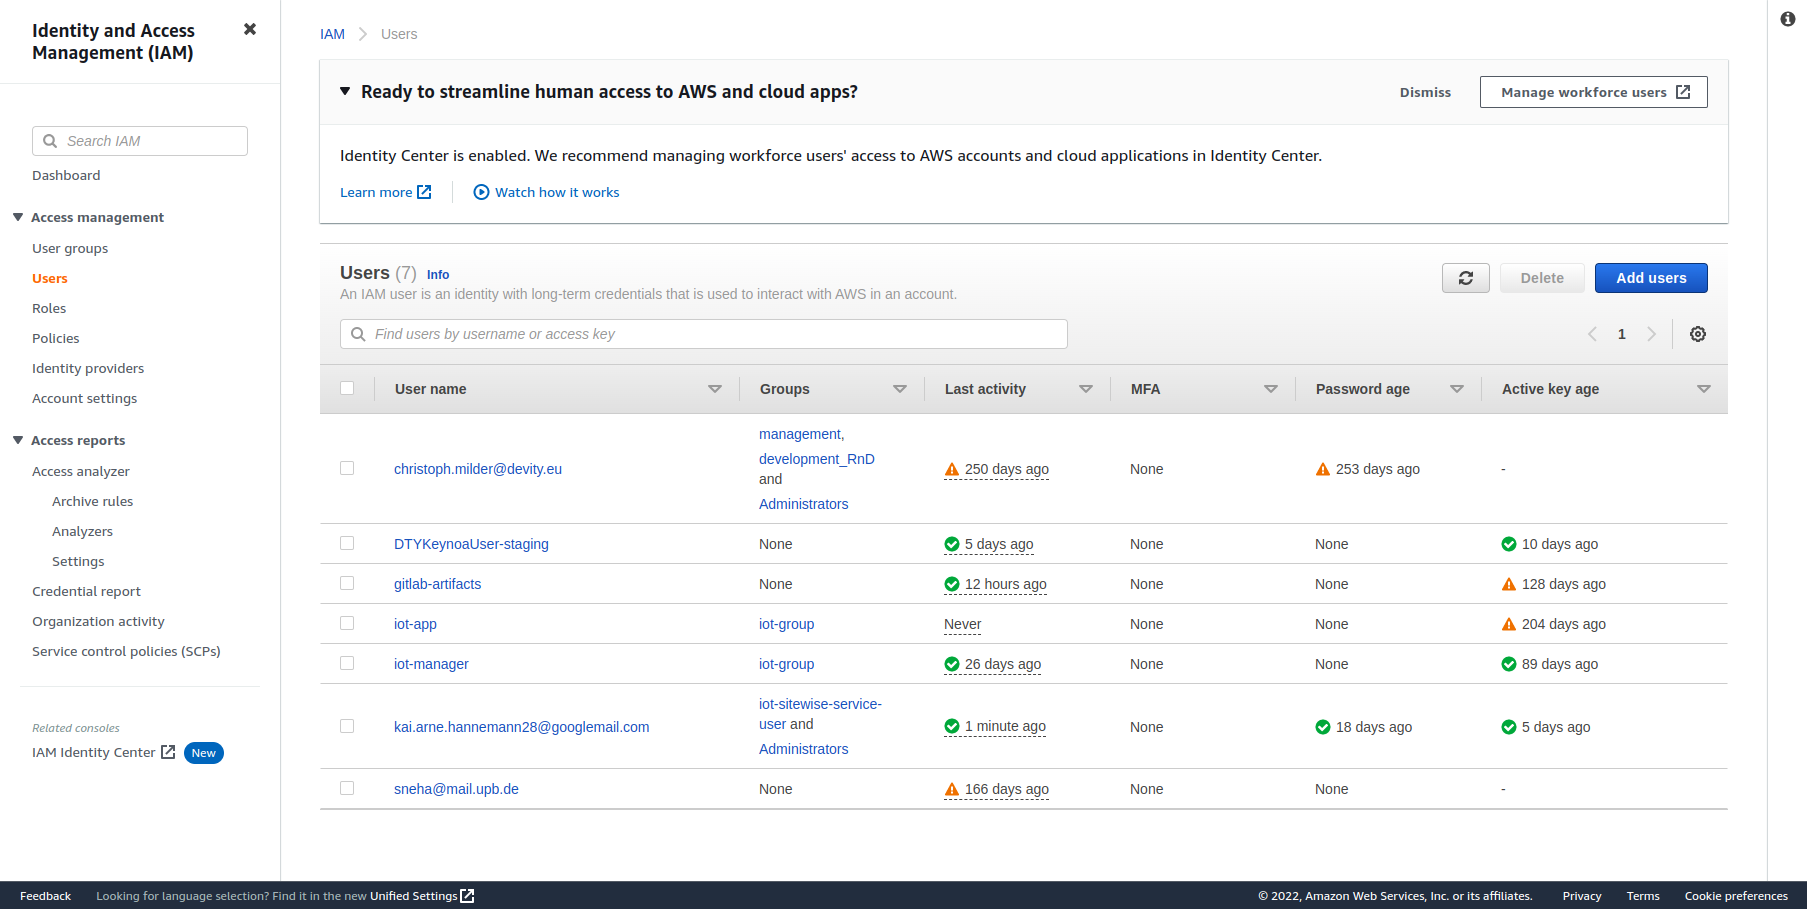
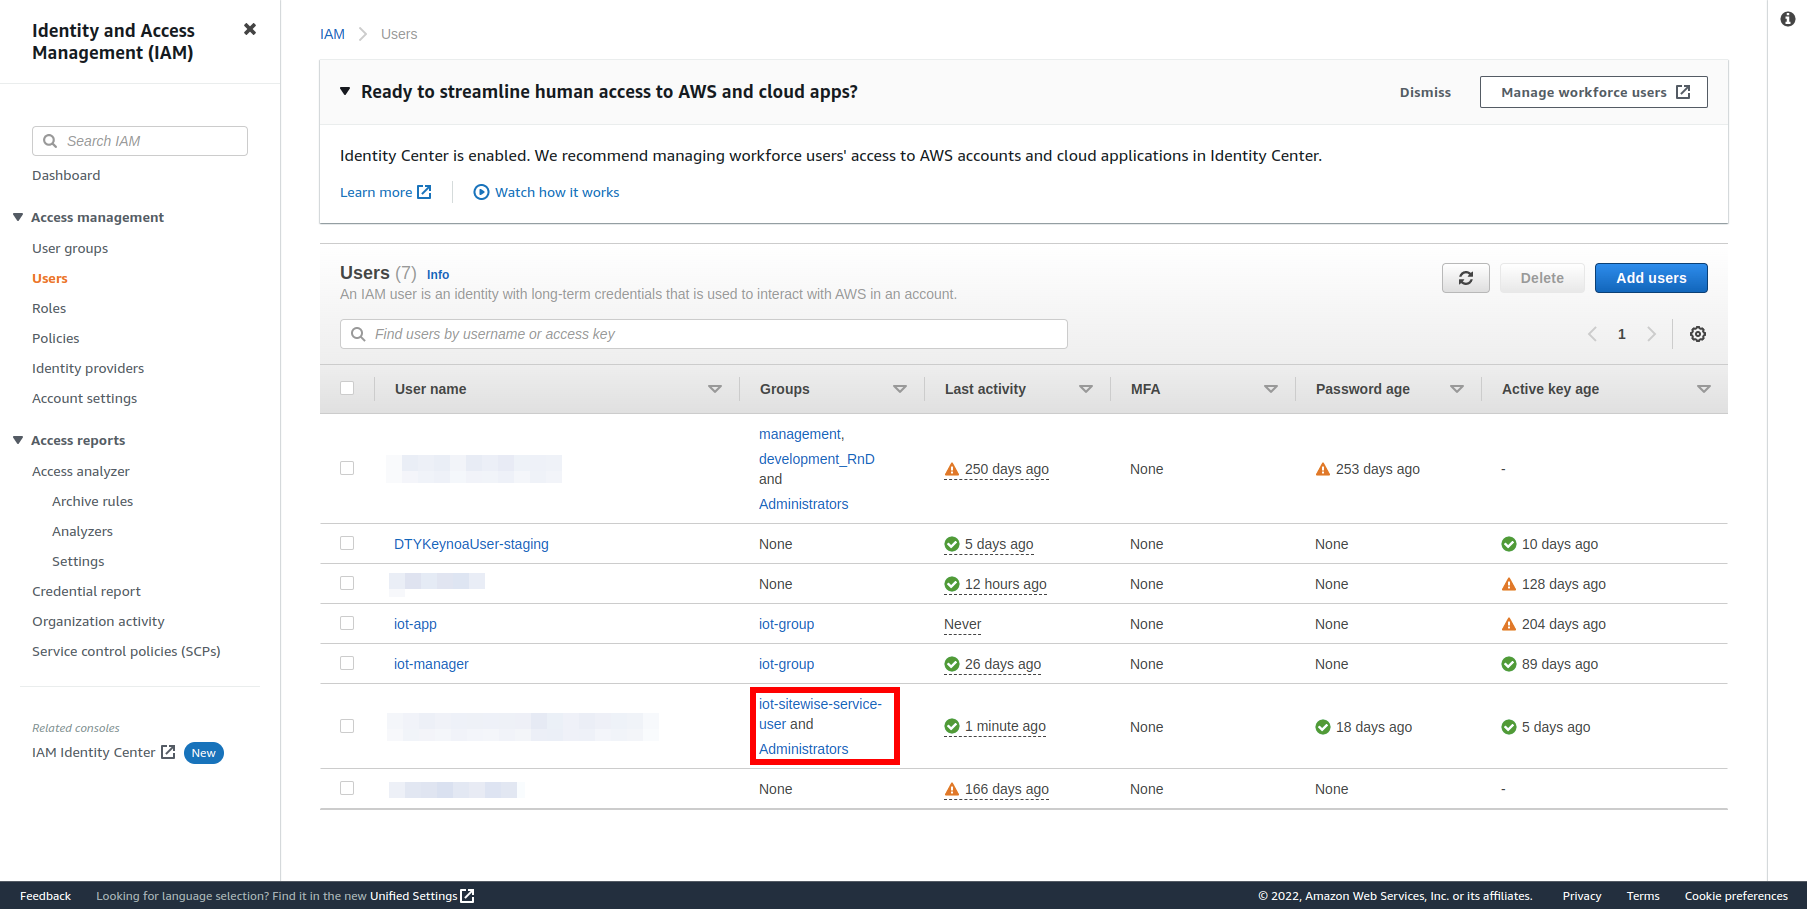
update first feedback

diff --git a/website/docs/IoT Use Cases/AWS/execution.md b/website/docs/IoT Use Cases/AWS/execution.md
@@ -18,11 +18,25 @@ First you start by configurating the device with the KEYNOA cloud.
 - Select the AWS data hub.
 ![KEYNOA](/img/KEYNOA/AWS/Data-Hub.png)
  
-- Fill in the Key ID and the secret key. Click on "Confirm".
+- Fill in the details. 
+    - Access Key ID
+    - Access Secret Key
+    - Region (select "eu-central-1" from the dropdown)
 ![KEYNOA](/img/KEYNOA/AWS/Data-Hub-details.png)
+- Click on "Confirm".
+- Access Key and Secret can be created in the AWS IAM portal.
+- Select your user with Administators group access.
+![KEYNOA](/img/KEYNOA/AWS/User-Credentials.png)
+- Create a new Access Key pair
+![KEYNOA](/img/KEYNOA/AWS/User-Credentials-2.png)
 
-- Fill in the RoleARN. Select the correct CA to register at AWS and provide a identifier name. Click on "Regiser CA".
+- Fill in the details.
+    - RoleARN ("arn:aws:iam::****:role/JITPRole")
+    - Topic ("/company/facility/42/dty-eval-kit/${serial}")
+    - Certificate Authority (select "KEYNOA-CLOUD INT CA2 MQTT v1" from the dropdown)
+    - Connector Name ("AWS connector")
 ![KEYNOA](/img/KEYNOA/AWS/Data-Hub-details-2.png)
+- Click on "Regiser CA".
 ### Create Template
 - In the KEYNOA UI create the MQTT Template.
 ![KEYNOA](/img/KEYNOA/Dashboard.png)
@@ -32,12 +46,14 @@ First you start by configurating the device with the KEYNOA cloud.
 - Fill in the device details
     - Device Property ("Device Model")
     - your-device-model-number ("eval-kit")
-- This property will be matched against the information the device provides about itself during the onboarding process. When it matches the template will be selected to configure the device.
-- Click on "Next".
+This property will be matched against the information the device provides about itself during the onboarding process. When it matches the template will be selected to configure the device.
 ![KEYNOA](/img/KEYNOA/MQTT-template-2.png)
+- Click on "Next".
 
-- Give the template an identifier. Click on "Save".
+- Fill in the details.
+    - Identifier Name ("AWS MQTT template")
 ![KEYNOA](/img/KEYNOA/MQTT-template-3.png)
+- Click on "Save".
 ### Upload Voucher
 - You have now created the setup for your device to be onboarded. Now upload the voucher you received to KEYNOA.
 ![KEYNOA](/img/KEYNOA/upload-voucher.png)
@@ -79,8 +95,8 @@ Important: Check that the correct region is selected before you start
 - Fill out the details
     - Model: choose the one you just created ("Eval Kit Device Model")
     - Name ("Eval Kit Device 1")
-- Click on "Create Asset" on the bottom
 ![Assets](/img/AWS/SiteWise-Assets-create.png)
+- Click on "Create Asset" on the bottom
 - Select the asset and choose edit
 - Fill in Measurement
     - Temperature C ("/company/facility/42/dty-eval-kit/device-serial-number/temperature")
@@ -107,8 +123,8 @@ Important: Check that the correct region is selected before you start
 - Fill out the details
     - Model: choose the one you just created ("Eval Kit Device Fleet Model")
     - Name ("Eval Kit Device Fleet 1")
-- Click on "Create Asset" on the bottom
 ![Assets](/img/AWS/SiteWise-Assets-create.png)
+- Click on "Create Asset" on the bottom
 - Select the asset and choose edit
 - Add associated asset
     - Hierarchy ("Device")
@@ -123,11 +139,11 @@ Important: Check that the correct region is selected before you start
 - Fill out the details
     - Name ("Eval Kit Forwarding Rule")
     - Optinal: Enter a description
-- Click on "Next"
 ![Rules](/img/AWS/Core-Rules-create-1.png)
+- Click on "Next"
 - Change the SQL query to match the Eval Kits publish topic
     - SELECT * FROM '/company/facility/+/dty-eval-kit/+'
-- The "+" placeholders allow all traffic on matching topics to be forwared to SiteWise
+The "+" placeholders allow all traffic on matching topics to be forwared to SiteWise
 - Click on "Next"
 ![Rules](/img/AWS/Core-Rules-create-2.png)
 - Fill in the details
@@ -199,7 +215,7 @@ Important: Check that the correct region is selected before you start
 - Fill in the details
     - Project name ("Eval Kit Project")
     - Project description ("My Eval Kit Project")
-- Click on "Add asset to project"
+Click on "Add asset to project"
 ![Portal](/img/AWS/SiteWise-Portal-Project-create-2.png)
 - Click on "Add owners"
 ![Portal](/img/AWS/SiteWise-Portal-Project-edit.png)

diff --git a/website/docs/IoT Use Cases/Azure IoT Central - Jobs/execution.md b/website/docs/IoT Use Cases/Azure IoT Central - Jobs/execution.md
@@ -35,8 +35,11 @@ First you start by configurating the device with the KEYNOA cloud.
 - Select the proper IoT Central hub. Click on the correct IoT hub on the right.
 ![KEYNOA](/img/KEYNOA/IoT-Central/Data-Hub-details.png)
 
-- Select the correct CA and provide an identifier name. Click on "Create Configuration".
+- Fill in the details.
+    - Certificate Authority (select "KEYNOA-CLOUD INT CA2 MQTT v1" from the dropdown)
+    - Connector Name ("IoT Central connector")
 ![KEYNOA](/img/KEYNOA/IoT-Central/Data-Hub-details-2.png)
+- Click on "Create Configuration".
 ### Create Template
 - Create the MQTT Template that assigns your device to the Data Hub.
 ![KEYNOA](/img/KEYNOA/Dashboard.png)
@@ -47,12 +50,14 @@ First you start by configurating the device with the KEYNOA cloud.
 - Fill in the device details
     - Device Property ("Device Model")
     - your-device-model-number ("eval-kit")
-- This property will be matched against the information the device provides about itself during the onboarding process. When it matches the template will be selected to configure the device.
+This property will be matched against the information the device provides about itself during the onboarding process. When it matches the template will be selected to configure the device.
 - Click on "Next".
 ![KEYNOA](/img/KEYNOA/MQTT-template-2.png)
 
-- Give the template an identifier. Click on "Save".
+- Give the template an identifier.
+    - Identifier Name ("Azure IoT MQTT template")
 ![KEYNOA](/img/KEYNOA/MQTT-template-3.png)
+- Click on "Save".
 ### Upload Voucher
 - You have now created the setup for your device to be onboarded. Now upload the voucher you received to KEYNOA.
 ![KEYNOA](/img/KEYNOA/upload-voucher.png)
@@ -63,7 +68,7 @@ First you start by configurating the device with the KEYNOA cloud.
 - After that go to the devives tab and wait until the TO0 Status of your device says completed.
 ![KEYNOA](/img/KEYNOA/TO0.png)
 
-- Your device is now ready to be onboarded. Continue with the setup in IoT Central.
+- Your device is now provisioned with KEYNOA. Continue with the setup of IoT Central.
 
 ## Azure IoT Central setup
 ### Create Device Template
@@ -151,4 +156,3 @@ This makes the administration scalable, as devices only need to be added to a gr
 
 ### Reset the Sending Interval
 - For practice: Now create another job that resets the Sending_interval to one minute the next morning. You can do this.
-	

diff --git a/website/docs/IoT Use Cases/Thingsboard - Rule Engine/execution.md b/website/docs/IoT Use Cases/Thingsboard - Rule Engine/execution.md
@@ -25,8 +25,15 @@ First you start by configurating the device with the KEYNOA cloud.
 - Select the Thingsboard data hub.
 ![KEYNOA](/img/KEYNOA/Thingsboard/Data-Hub.png)
 
-- Fill in the details of your Thingsboard instance. The provision key and secret can be found in the Thingsboard device profile you want your device to be assigned to. Click on "Create".
+- Fill in the details of your Thingsboard instance. 
+    - Connector Name ("Thingsboard Cloud")
+    - Provision Key
+    - Provision Secret
+    - Certificate Authority (select "KEYNOA-CLOUD INT CA2 MQTT v1" from the dropdown)
 ![KEYNOA](/img/KEYNOA/Thingsboard/Data-Hub-details.png)
+- The provision key and secret can be found in the Thingsboard device profile you want your device to be assigned to.
+![KEYNOA](/img/KEYNOA/Thingsboard/Device-Credentials.png)
+- Click on "Create".
 ### Create Template
 - Create the MQTT template that assigns your device to the Data Hub.
 ![KEYNOA](/img/KEYNOA/Dashboard.png)
@@ -37,12 +44,14 @@ First you start by configurating the device with the KEYNOA cloud.
 - Fill in the device details
     - Device Property ("Device Model")
     - your-device-model-number ("eval-kit")
+![KEYNOA](/img/KEYNOA/MQTT-template-2.png)
 - This property will be matched against the information the device provides about itself during the onboarding process. When it matches the template will be selected to configure the device.
 - Click on "Next".
-![KEYNOA](/img/KEYNOA/MQTT-template-2.png)
 
-- Give the template an identifier. Click on "Save".
+- Give the template an identifier.
+    - Identifier Name ("Thingsboard MQTT template")
 ![KEYNOA](/img/KEYNOA/MQTT-template-3.png)
+- Click on "Save".
 ### Upload Voucher
 - You have now created the setup for your device to be onboarded. Now upload the voucher you received to KEYNOA.
 ![KEYNOA](/img/KEYNOA/upload-voucher.png)
@@ -53,7 +62,7 @@ First you start by configurating the device with the KEYNOA cloud.
 - After that go to the devives tab and wait until the TO0 Status of your device says "completed".
 ![KEYNOA](/img/KEYNOA/TO0.png)
 
-- Your device is now ready to be onboarded. Continue with the setup in Thingsboard.
+- Your device is now ready to be onboarded. Power on the device to complete the onboaridng process. After that continue with the setup in Thingsboard.
 
 ## Thingsboard setup
 ### Adapt the Rule Chain

diff --git a/website/docs/IoT Use Cases/Thingsboard - Rule Engine/prerequisites.md b/website/docs/IoT Use Cases/Thingsboard - Rule Engine/prerequisites.md
@@ -6,7 +6,8 @@ sidebar_position: 1
 
 ## Prerequisites
 
-- You have received the DEVITY Eval Kit including the DEVITY Gateway 
+- You have received the DEVITY Eval Kit including the DEVITY Gateway
+- You have received the DEVITY device voucher 
 - You have received the console access to Thingsboard
 
 ## What is the Thingsboard Rule Engine

diff --git a/website/docs/IoT Use Cases/Azure IoT Central - Jobs/prerequisites.md b/website/docs/IoT Use Cases/Azure IoT Central - Jobs/prerequisites.md
@@ -7,6 +7,7 @@ sidebar_position: 1
 ## Prerequisites
 
 - You have received the DEVITY Eval Kit including the DEVITY Gateway 
+- You have received the DEVITY device voucher 
 - You have received the console access to the Devity-Hub, our IoT Central Instance on Azure
 
 ## What is the Azure IoT Central

diff --git a/website/docs/IoT Use Cases/AWS/prerequsites.md b/website/docs/IoT Use Cases/AWS/prerequsites.md
@@ -6,6 +6,7 @@ sidebar_position: 1
 ## Prerequisites
 
 - You have received the DEVITY Eval Kit including the DEVITY Gateway 
+- You have received the DEVITY device voucher 
 - You have received the console access to the AWS IoT Core Portal
 
 ## What is AWS
